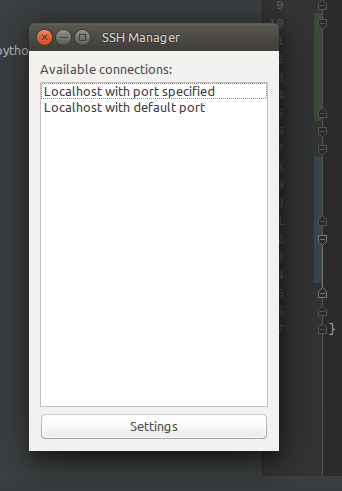
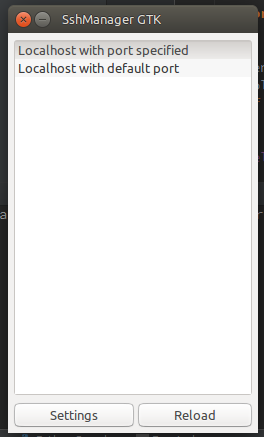
refactoring and migrating to python-3.5

diff --git a/ui/ConnectionListWindow.py b/ui/ConnectionListWindow.py
@@ -1,0 +1,100 @@
+from os import system
+
+from gi import require_version
+
+require_version('Gdk', '3.0')
+require_version('Gtk', '3.0')
+
+from gi.repository import Gtk
+
+import Application
+from ssh_manager.Manager import Manager
+from ssh_manager.config.Window import Window
+
+
+class ConnectionListWindow:
+    VERTICAL_MARGIN = 5
+    HORIZONTAL_MARGIN = 2
+    _listbox = None
+    _frame = None
+    _scrollable = None
+    _list_store = Gtk.ListStore(str)
+
+    def __init__(self, manager: Manager, window_config: Window):
+        self._manager = manager
+        self._window_config = window_config
+
+    def show(self):
+        win = Gtk.Window()
+        win.set_size_request(self._window_config.width, self._window_config.height)
+        win.move(self._window_config.x, self._window_config.y)
+        win.set_resizable(False)
+
+        btn_setting = Gtk.Button("Settings")
+        btn_setting.set_margin_right(self.HORIZONTAL_MARGIN)
+        btn_reload = Gtk.Button("Reload")
+
+        btn_box = Gtk.HBox()
+        btn_box.add(btn_setting)
+        btn_box.add(btn_reload)
+
+        self._listbox = Gtk.TreeView(self._list_store)
+        self._listbox.set_headers_visible(False)
+        self._listbox.connect("row-activated", self.row_activated)
+
+        self._scrollable = Gtk.ScrolledWindow()
+        self._scrollable.add(self._listbox)
+        self._fill_listbox()
+
+        self._frame = Gtk.Frame()
+        self._frame.add(self._scrollable)
+        self._frame.set_border_width(1)
+        self._frame.set_margin_bottom(self.VERTICAL_MARGIN)
+
+        vbox = Gtk.VBox()
+        vbox.pack_start(self._frame, 1, 1, 1)
+        vbox.pack_end(btn_box, 0, 0, 0)
+
+        vbox.set_margin_top(self.VERTICAL_MARGIN)
+        vbox.set_margin_bottom(self.VERTICAL_MARGIN)
+        vbox.set_margin_left(self.VERTICAL_MARGIN)
+        vbox.set_margin_right(self.VERTICAL_MARGIN)
+
+        btn_setting.connect("clicked", self.btn_settings_click)
+        btn_reload.connect("clicked", self.btn_reload_click)
+
+        win.add(vbox)
+
+        win.set_title("SshManager GTK")
+        win.connect("delete-event", Gtk.main_quit)
+        win.show_all()
+        Gtk.main()
+
+    # noinspection PyUnusedLocal
+    @staticmethod
+    def btn_settings_click(target):
+        system("xdg-open " + Application.Application.get_config_file_path())
+
+    # noinspection PyUnusedLocal
+    def btn_reload_click(self, target):
+        self._manager = Application.Application.create_default_manager()
+        self._fill_listbox()
+
+    def _fill_listbox(self):
+        self._list_store.clear()
+        connections = self._manager.get_connections()
+        for connection in connections:
+            self._list_store.append([connection.label])
+
+        renderer = Gtk.CellRendererText()
+        column = self._listbox.get_column(0)
+        if not column:
+            column = Gtk.TreeViewColumn(None, renderer, text=0)
+            self._listbox.append_column(column)
+        self._listbox.show_all()
+
+    # noinspection PyUnusedLocal
+    def row_activated(self, target: Gtk.TreeView, path: Gtk.TreePath, column: Gtk.TreeViewColumn):
+        i = path.get_indices()[0]
+        connection = self._manager.get_connection(i)
+        system("gnome-terminal -x ssh {} -p {}".format(connection.host, connection.port))

diff --git a/Application.py b/Application.py
@@ -1,0 +1,45 @@
+from os.path import expanduser, sep
+
+from ssh_manager.ConfigurationFile import ConfigurationFile
+from ssh_manager.JsonConfigParser import JsonConfigParser
+from ssh_manager.Manager import Manager
+from ssh_manager.config.Config import Config
+from ssh_manager.interfaces.AbstractApplication import AbstractApplication
+from ui.ConnectionListWindow import ConnectionListWindow
+
+
+class Application(AbstractApplication):
+    def run(self):
+        config_file_path = self.get_config_file_path()
+        config = self.get_config(config_file_path)
+        manager = self.get_manager(config)
+
+        window = ConnectionListWindow(manager, config.get_window())
+        window.show()
+
+    @staticmethod
+    def get_config_file_path() -> str:
+        home = expanduser("~")
+        return home + sep + '_______sshManager.config.json'
+
+    @staticmethod
+    def get_manager(config: Config):
+        connections = config.get_connections()
+        manager = Manager(connections)
+
+        return manager
+
+    @staticmethod
+    def get_config(file_path: str) -> Config:
+        file = ConfigurationFile(file_path)
+        parser = JsonConfigParser()
+        config = parser.parse(file)
+
+        return config
+
+    @staticmethod
+    def create_default_manager():
+        config = Application.get_config(Application.get_config_file_path())
+        manager = Application.get_manager(config)
+
+        return manager

diff --git a/ssh_manager/JsonConfigParser.py b/ssh_manager/JsonConfigParser.py
@@ -1,0 +1,33 @@
+from json import loads
+
+from ssh_manager import ConfigurationFile
+from ssh_manager.Connection import Connection
+from ssh_manager.config.Config import Config
+from ssh_manager.config.Window import Window
+from ssh_manager.interfaces.AbstractConfigParser import AbstractConfigParser
+
+
+class JsonConfigParser(AbstractConfigParser):
+    def parse(self, file: ConfigurationFile) -> Config:
+        config = Config()
+        json_object = loads(file.get_contents())
+
+        self._parse_connections(json_object, config)
+        self._parse_window(json_object, config)
+
+        return config
+
+    @staticmethod
+    def _parse_connections(json_object: dict, config: Config):
+        config.set_connections([])
+        for _connection in json_object['connections']:
+            if 'port' not in _connection:
+                _connection['port'] = Connection.DEFAULT_PORT
+            connection = Connection(_connection['label'], _connection['host'], _connection['port'])
+            config.add_connection(connection)
+
+    @staticmethod
+    def _parse_window(json_object: dict, config: Config):
+        _window = json_object['window']
+        window = Window(_window['x'], _window['y'], _window['width'], _window['height'])
+        config.set_window(window)

diff --git a/ssh_manager/ConfigurationFile.py b/ssh_manager/ConfigurationFile.py
@@ -1,0 +1,23 @@
+from os.path import exists, dirname
+from shutil import copy
+
+from ssh_manager.interfaces.AbstractConfigurationFile import AbstractConfigurationFile
+
+
+class ConfigurationFile(AbstractConfigurationFile):
+    _file_path = ''
+
+    def __init__(self, file_path):
+        super(ConfigurationFile, self).__init__()
+        self._file_path = file_path
+        self._create_if_not_exists()
+
+    def get_contents(self):
+        with open(self._file_path, 'r') as opened_file:
+            return opened_file.read()
+
+    def _create_if_not_exists(self):
+        if exists(self._file_path):
+            return
+        dist_file = dirname(__file__) + '/../resources/config-dist.json'
+        copy(dist_file, self._file_path)

diff --git a/ssh_manager/config/Config.py b/ssh_manager/config/Config.py
@@ -1,0 +1,22 @@
+from ssh_manager.Connection import Connection
+from ssh_manager.config.Window import Window
+
+
+class Config:
+    _connections = []
+    _window = None
+
+    def add_connection(self, connection: Connection):
+        self._connections.append(connection)
+
+    def set_window(self, window: Window):
+        self._window = window
+
+    def get_connections(self):
+        return self._connections
+
+    def get_window(self) -> Window:
+        return self._window
+
+    def set_connections(self, connections):
+        self._connections = connections

diff --git a/ssh_manager/Manager.py b/ssh_manager/Manager.py
@@ -1,0 +1,14 @@
+from ssh_manager.Connection import Connection
+
+
+class Manager:
+    _connections = []
+
+    def __init__(self, connections: [Connection]):
+        self._connections = connections
+
+    def get_connection(self, index: int) -> Connection:
+        return self._connections[index]
+
+    def get_connections(self):
+        return self._connections

diff --git a/app.py b/app.py
@@ -1,14 +1,6 @@
-#!/usr/bin/python
-# simple.py
+#!/usr/bin/python3.5
 
-import sys
-from PyQt4 import QtGui
+from Application import Application
 
-from SshManager import SshManager
-
-app = QtGui.QApplication(sys.argv)
-
-sshManager = SshManager()
-sshManager.show()
-
-sys.exit(app.exec_())
+app = Application()
+app.run()

diff --git a/ssh_manager/config/Window.py b/ssh_manager/config/Window.py
@@ -1,0 +1,12 @@
+class Window:
+    x = 0
+    y = 0
+    width = 0
+    height = 0
+
+    def __init__(self, x: int, y: int, width: int, height: int):
+        self.x = x
+        self.y = y
+        self.width = width
+        self.height = height
+        pass

diff --git a/ssh_manager/interfaces/AbstractConfigParser.py b/ssh_manager/interfaces/AbstractConfigParser.py
@@ -1,0 +1,11 @@
+from abc import abstractmethod, ABCMeta
+
+from ssh_manager import ConfigurationFile
+
+
+class AbstractConfigParser:
+    __metaclass__ = ABCMeta
+
+    @abstractmethod
+    def parse(self, file: ConfigurationFile):
+        pass

diff --git a/ssh_manager/Connection.py b/ssh_manager/Connection.py
@@ -1,0 +1,10 @@
+class Connection:
+    DEFAULT_PORT = 22
+    label = ''
+    host = ''
+    port = 0
+
+    def __init__(self, label: str, host: str, port: int):
+        self.label = label
+        self.host = host
+        self.port = port

diff --git a/ssh_manager/interfaces/AbstractConfigurationFile.py b/ssh_manager/interfaces/AbstractConfigurationFile.py
@@ -1,0 +1,12 @@
+from abc import ABCMeta, abstractmethod
+
+
+class AbstractConfigurationFile:
+    __metaclass__ = ABCMeta
+
+    def __init__(self):
+        pass
+
+    @abstractmethod
+    def get_contents(self):
+        pass

diff --git a/ssh_manager/interfaces/AbstractApplication.py b/ssh_manager/interfaces/AbstractApplication.py
@@ -1,0 +1,9 @@
+from abc import ABCMeta, abstractmethod
+
+
+class AbstractApplication:
+    __metaclass__ = ABCMeta
+
+    @abstractmethod
+    def run(self):
+        pass
